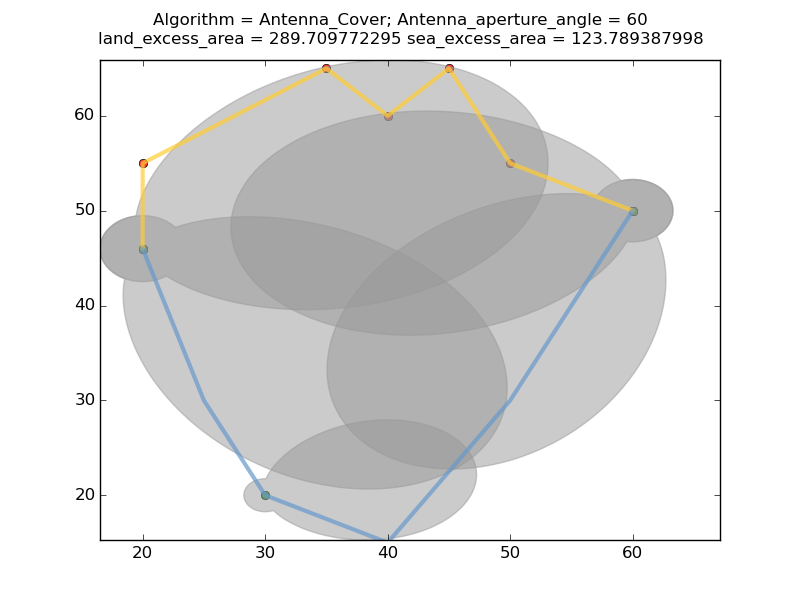
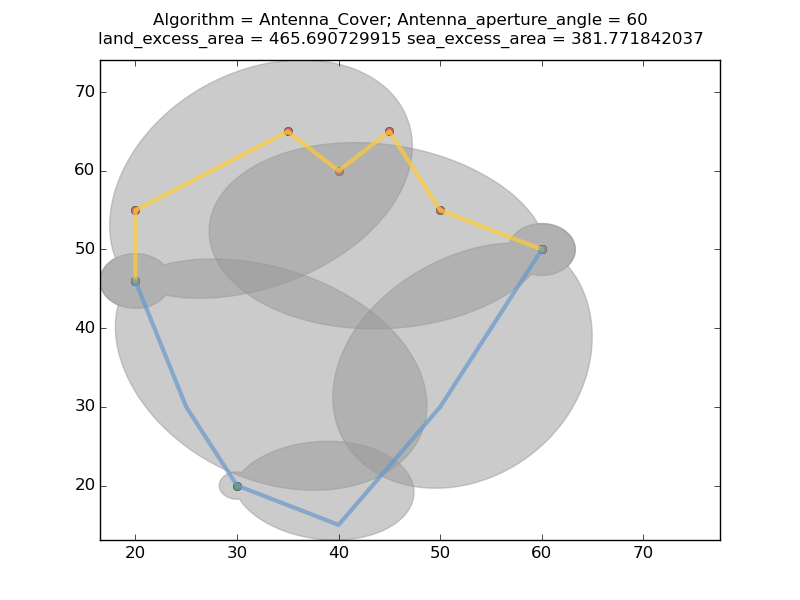
Increase number of iterations and removed annealer.py

diff --git a/circlecover/simannealer.py b/circlecover/simannealer.py
@@ -11,9 +11,15 @@ import copy
 class SimAnneal(Annealer):
 
     def covers(self,cover_polygons):
-        """ boolean to determine whether the collection of points is covered by the given set of lobes. 
-            If this returns True then a valid cover has been found. """
+        """ 
+
+        boolean to determine whether the collection of points is covered by the given set of lobes. 
+        If this returns True then a valid cover has been found. We allow a small amount of 
+        slop in the cover (.005%) to give the algorithm a chance to do better.
+
+        """
         not_covered_count = 0
+        # For each point in our grid, check to see if the point is covered by at least one lobe
         for point in self.points_to_check:
             covered = False
             for i in range(0,len(cover_polygons)):
@@ -24,50 +30,50 @@ class SimAnneal(Annealer):
                 not_covered_count = not_covered_count + 1
 
         ratio = float(not_covered_count) / float(len(self.points_to_check))
-        if float(not_covered_count) / float(len(self.points_to_check)) < .005:
-            return True
-        else:
-            return False
+        return ratio < .005
 
 
     def energy(self):
+        """ 
+        The energy function for the simulated annealing. 
+        This is called back by the simanneal function. 
+        """
         cover_polygons = self.cover_polygons
         union = cover_polygons[0]
         for i in range(1,len(cover_polygons)):
             union = union.union(cover_polygons[i])
         hull = union.convex_hull
         cost = hull.area
-        print "cost = ",cost
-        return cost
-                
-    def energy2(self,angles):
-        intersection_area = 0
-        cover_polygons = self.cover_polygons
-        for i in range(0,len(cover_polygons)):
-            for j in range(i+1,len(cover_polygons)):
-                if cover_polygons[i].intersects(cover_polygons[j]):
-                    intersection = cover_polygons[i].intersection(cover_polygons[j])
-                    intersection_area = intersection_area + intersection.area
-        cost =  math.INF if intersection_area == 0 else 1.0/intersection_area
-        print "cost = ",cost
         return cost
 
+
     def move(self):
+        """
+        The move function called back by the simanneal parent class.
+        """
         while True:
+            # Pick a random angle
             index = random.randint(0,len(self.indexes) - 1)
             sign = -1 if random.randint(0,1) == 0 else 1
-            delta_angle = 2*math.pi/180*sign
+            # Peturb the solution by one degree.
+            delta_angle = 1*math.pi/180*sign
             new_angle = delta_angle + self.state[index]
             new_angles = copy.copy(self.state)
             new_angles[index] = new_angle
+            # Generate the cover lobes.
             cover_polygons = excessarea.generate_antenna_cover_polygons(self.indexes,new_angles,self.centers,self.detection_coverage)
             if (self.covers(cover_polygons)):
+                # if the cover is good then keep the new angles
                 self.state = new_angles
+                # keep the cover polygons.
                 self.cover_polygons = cover_polygons
                 break
 
 
     def get_result(self):     
+        """ 
+        Prune unecessary antenna lobes and retrieve the result.
+        """
         cover_polygons = excessarea.generate_antenna_cover_polygons(self.indexes,self.state,self.centers,self.detection_coverage)
         # Now remove a polygon at a time and see if the cover criterion is met.
         indexes_to_remove = []
@@ -76,8 +82,7 @@ class SimAnneal(Annealer):
             if self.covers(newcover):
                 indexes_to_remove.append(i)
             
-            
-        print "indexes_to_remove ", indexes_to_remove
+        print ("indexes_to_remove " + str(indexes_to_remove))
         centers = [self.centers[i] for i in range(0,len(self.centers)) if i not in indexes_to_remove]
         indexes = [self.indexes[i] for i in range(0,len(self.indexes)) if  i not in indexes_to_remove]
         angles =  [self.state[i] for i in range(0,len(self.state)) if i not in indexes_to_remove]
@@ -109,6 +114,6 @@ class SimAnneal(Annealer):
                                     for j in range(0,ndivisions) 
                                         if self.bounding_polygon.contains(Point (minx+i*deltax, miny+j*deltay))]
         
-        self.steps = 500
+        self.steps = 1000
 
         

diff --git a/setup.py b/setup.py
@@ -79,5 +79,5 @@ setup(
     'Programming Language :: Python :: 3.3',
     'Programming Language :: Python :: 3.4',
   ],
-  install_requires = ['numpy', 'descartes'] #, 'png', 'freetype2.0'
+  install_requires = ['numpy', 'descartes','simanneal'] #, 'png', 'freetype2.0'
 )
